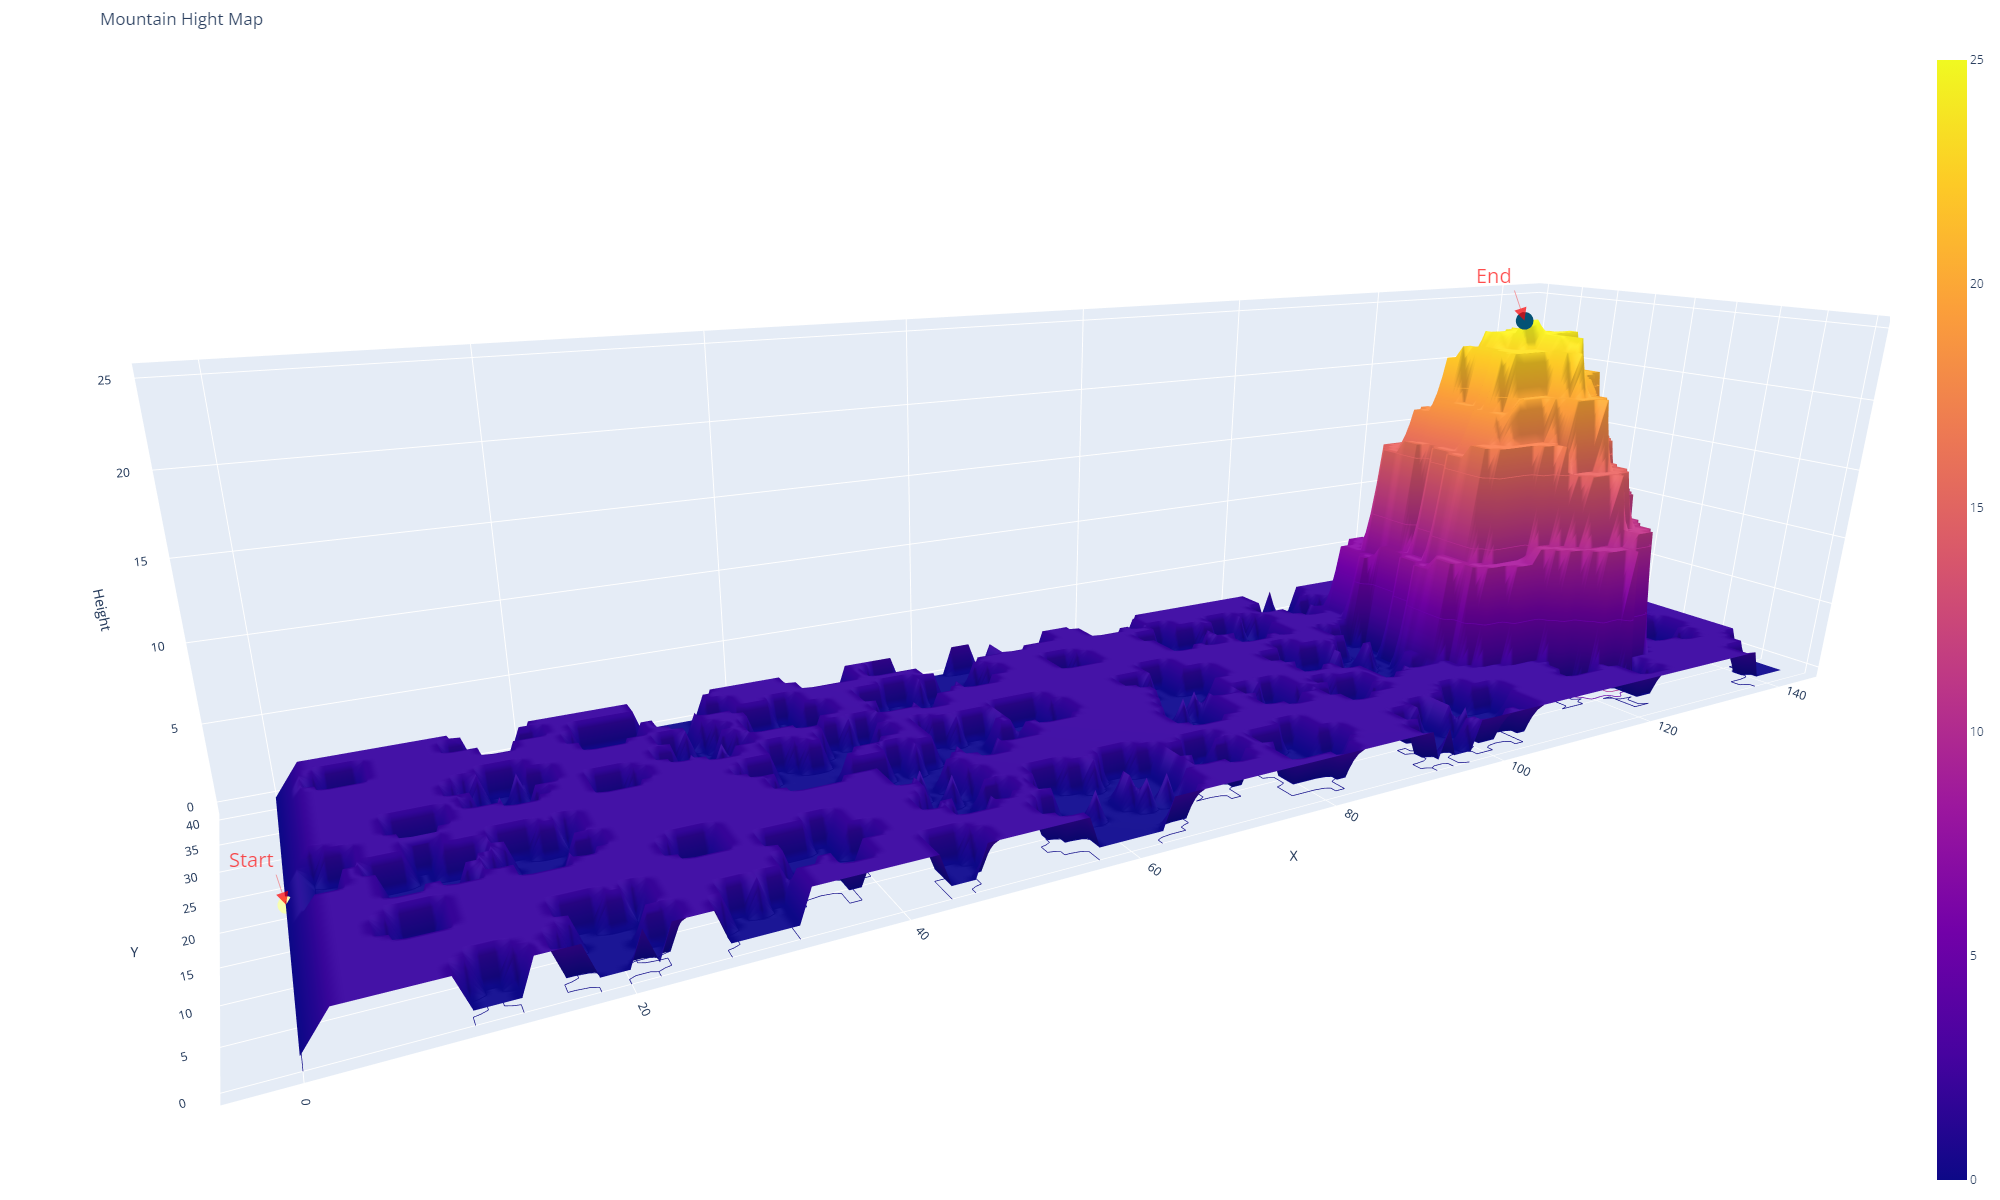
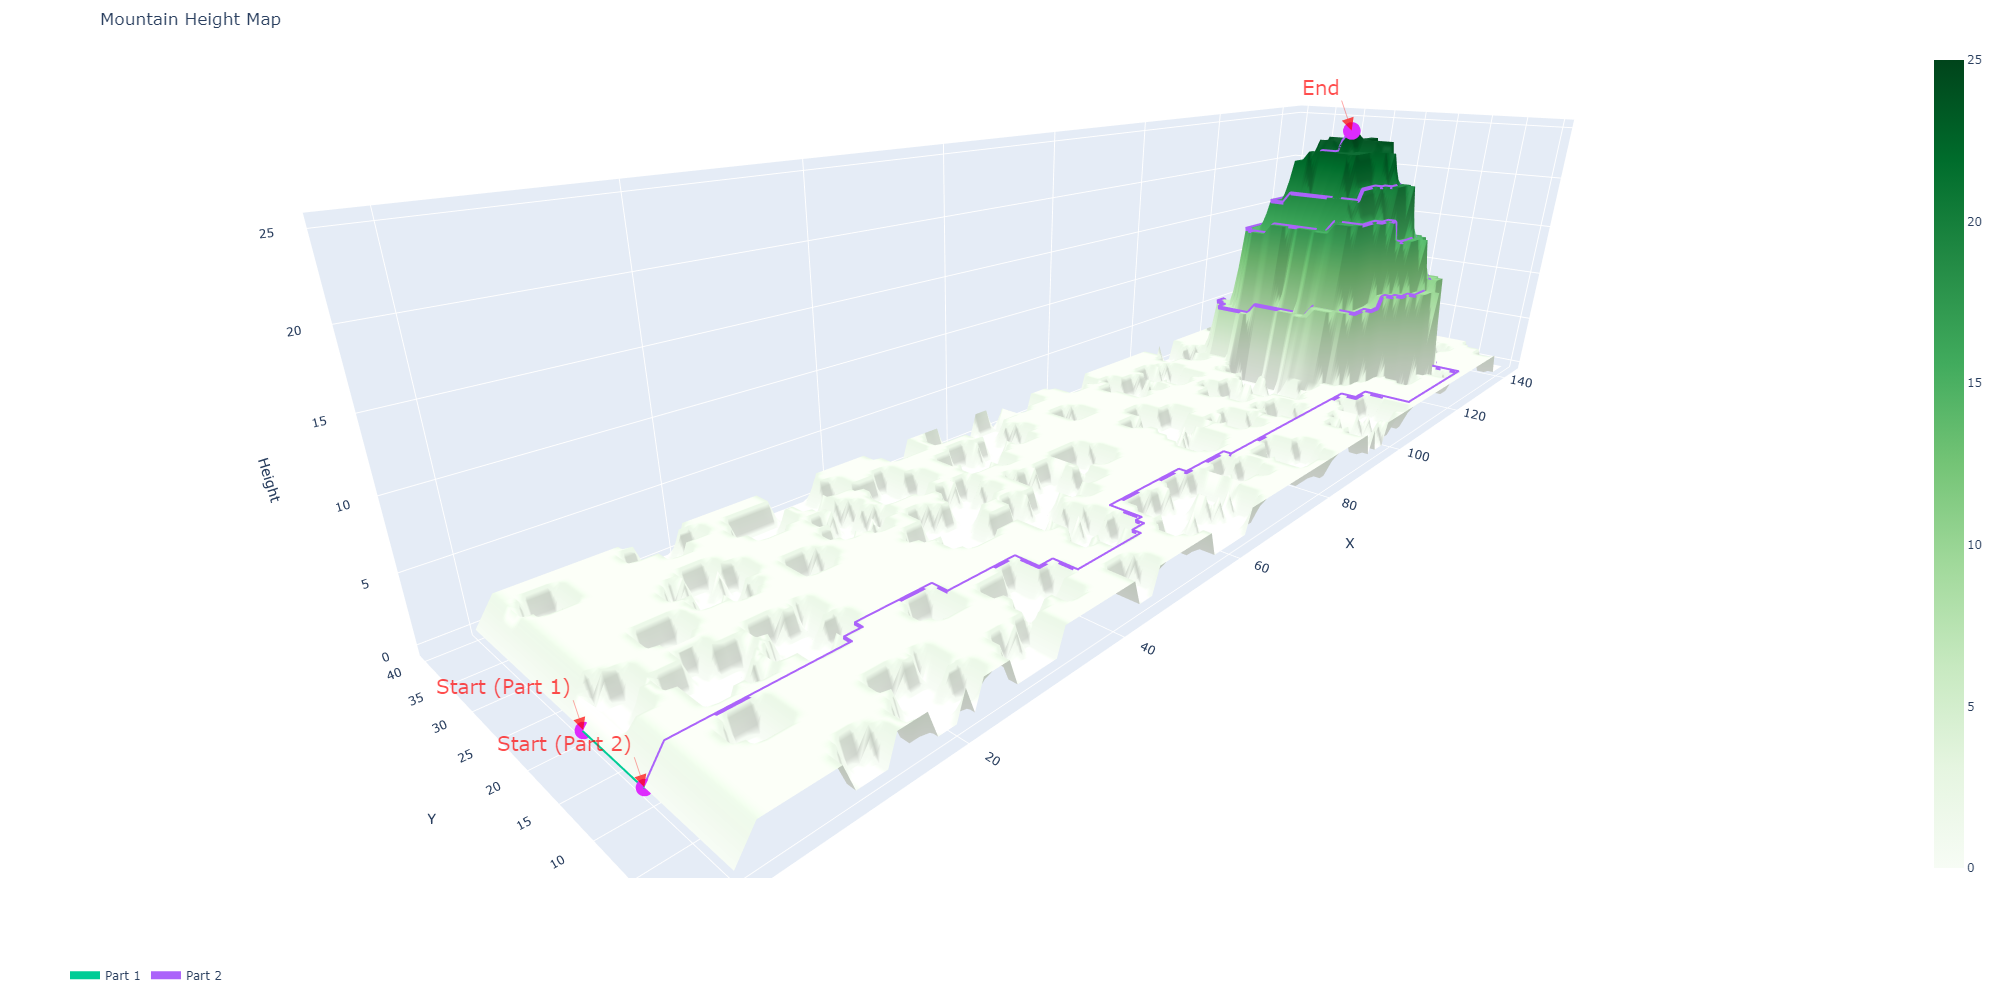
Make visualizaiton

diff --git a/2022/day12.py b/2022/day12.py
@@ -1,7 +1,6 @@
 import aoc_util as aoc
 import numpy as np
 import plotly.graph_objects as go
-import prettytable
 
 class Solution(aoc.AbstractSolution):
     def parse(self, puzzle_input: list[str]) -> None:
@@ -32,8 +31,6 @@ class Solution(aoc.AbstractSolution):
         weight_map_downhill = {coordinates: [(point, 1) for point in self.get_adjacent_points(*coordinates, False)] for coordinates in self.heightmap.keys()}
         _, costs = aoc.calculate_dijkstra(weight_map_downhill, self.end)
 
-        min_cost = min([costs[coordinates] for coordinates in costs])
-
         shortest_path_start = None
         shortest_path_costs = float("inf")
         for point in costs:
@@ -54,35 +51,42 @@ class Solution(aoc.AbstractSolution):
             shortest_path_part1.append(parents_map_part1[_point])
             _point = parents_map_part1[_point]
 
+        # calculate shortest path for part 1 with dijkstra
+        weight_map_downhill = {coordinates: [(point, 1) for point in self.get_adjacent_points(*coordinates, False)] for coordinates in self.heightmap.keys()}
+        parents_map_part2, costs_part2 = aoc.calculate_dijkstra(weight_map_downhill, self.end)
+
+        shortest_path_start_part2 = None
+        shortest_path_costs_part2 = float("inf")
+        for point in costs_part2:
+            if (self.heightmap[point] == 0) and (costs_part2[point] < shortest_path_costs_part2):
+                shortest_path_costs_part2 = costs_part2[point]
+                shortest_path_start_part2 = point
+
+        shortest_path_part2 = [shortest_path_start_part2]
+        _point = shortest_path_start_part2
+        while _point != self.end:
+            shortest_path_part2.append(parents_map_part2[_point])
+            _point = parents_map_part2[_point]
+
         # get arrays for height map
         z = [[self.heightmap[_x, _y] for _x in range(self.x_max + 1)] for _y in range(self.y_max + 1)]
         x = list(range(len(z[0])))
         y = list(range(len(z)))
         
         # add height map surface
-        fig = go.Figure(data = [go.Surface(z=z, x=x, y=y)])
-
-        # add height lines to top and bottom of plot
-        fig.update_traces(
-            contours_z = dict(
-                show = True,
-                usecolormap = True,
-                highlightcolor = "limegreen",
-                project_z = True
-            )
-        )
+        fig = go.Figure(data=[go.Surface(z=z, x=x, y=y, colorscale="Greens")])
 
         # add start and end point
         fig.add_scatter3d(
-            x = [self.start[0], self.end[0]],
-            y = [self.start[1], self.end[1]],
-            z = [self.heightmap[self.start], self.heightmap[self.end]],
+            x = [self.start[0], shortest_path_start_part2[0], self.end[0]],
+            y = [self.start[1], shortest_path_start_part2[1], self.end[1]],
+            z = [self.heightmap[self.start], self.heightmap[shortest_path_start_part2], self.heightmap[self.end]],
             showlegend = False,
             mode = "markers",
             marker = dict(
                 size = 10,
-                color = [0, 0],
-                colorscale = "Bluyl"
+                color = [0, 0, 0],
+                colorscale = "Plotly3"
             )
         )
 
@@ -95,10 +99,20 @@ class Solution(aoc.AbstractSolution):
             mode = "lines",
             line = dict(width=8)
         )
+
+        # add line from start to end for part 2
+        fig.add_scatter3d(
+            x = [x for x, _ in shortest_path_part2],
+            y = [y for _, y in shortest_path_part2],
+            z = [self.heightmap[point] for point in shortest_path_part2],
+            name = "Part 2",
+            mode = "lines",
+            line = dict(width=8)
+        )
         
         # add title and set layout
         fig.update_layout(
-            title = "Mountain Hight Map",
+            title = "Mountain Height Map",
             scene = dict(
                 aspectratio = dict(x=1, y=(self.y_max / self.x_max), z=0.25),
                 xaxis_title = "X",
@@ -110,7 +124,25 @@ class Solution(aoc.AbstractSolution):
                         x = self.start[0],
                         y = self.start[1],
                         z = self.heightmap[self.start],
-                        text = "Start",
+                        text = "Start (Part 1)",
+                        xanchor = "right",
+                        yanchor = "bottom",
+                        opacity = 0.7,
+                        font = dict(
+                            color = "red",
+                            size = 20
+                        ),
+                        arrowcolor = "red",
+                        arrowsize = 5,
+                        arrowwidth = 0.5,
+                        arrowhead = 2
+                    ),
+                    dict(
+                        showarrow=True,
+                        x = shortest_path_start_part2[0],
+                        y = shortest_path_start_part2[1],
+                        z = self.heightmap[shortest_path_start_part2],
+                        text = "Start (Part 2)",
                         xanchor = "right",
                         yanchor = "bottom",
                         opacity = 0.7,
@@ -145,7 +177,7 @@ class Solution(aoc.AbstractSolution):
             ),
             autosize = False,
             width = 2000,
-            height = 1200,
+            height = 1000,
             margin = dict(l=65, r=50, b=10, t=50),
             legend_orientation = "h"
         )
